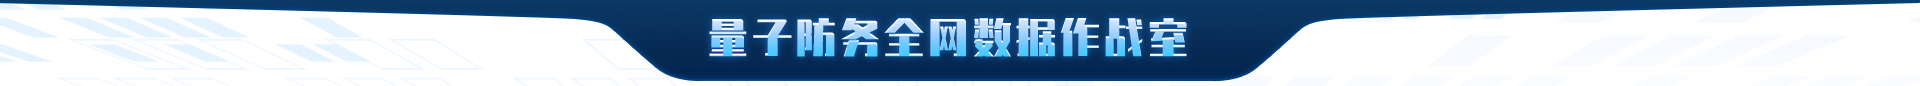
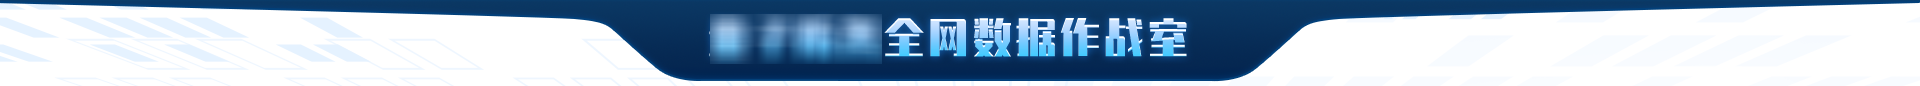
修改

Changed region(s): [[0.3438, 0.1628, 0.4688, 0.7442]]

diff --git a/src/components/Login.vue b/src/components/Login.vue
@@ -51,7 +51,7 @@
       </div>
       <!--row-->
       <div class="login-footer mx-auto p-0 border-0 mb-1">
-        <span>量子防务全网作战室&copy; 版权所有</span>
+        <span>XXXX全网作战室&copy; 版权所有</span>
       </div>
     </div>
     <Toasts

diff --git a/src/components/common/Footer.vue b/src/components/common/Footer.vue
@@ -1,6 +1,6 @@
 <template>
   <footer class="footer text-center p-0 border-0">
-    <span>量子防务全网作战室&copy; 版权所有</span>
+    <span>XXXX全网作战室&copy; 版权所有</span>
   </footer>
 </template>
 <script>
